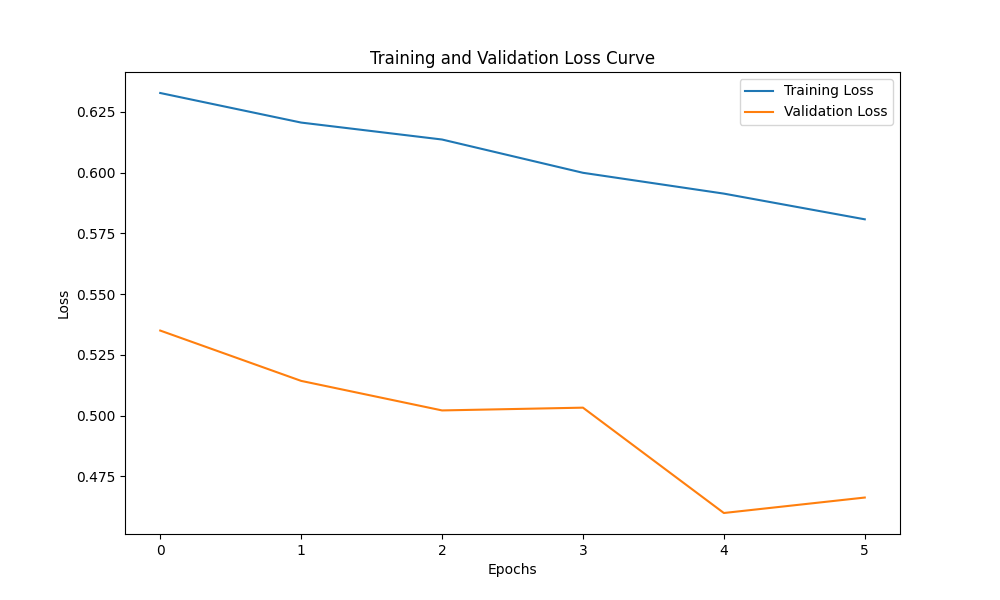
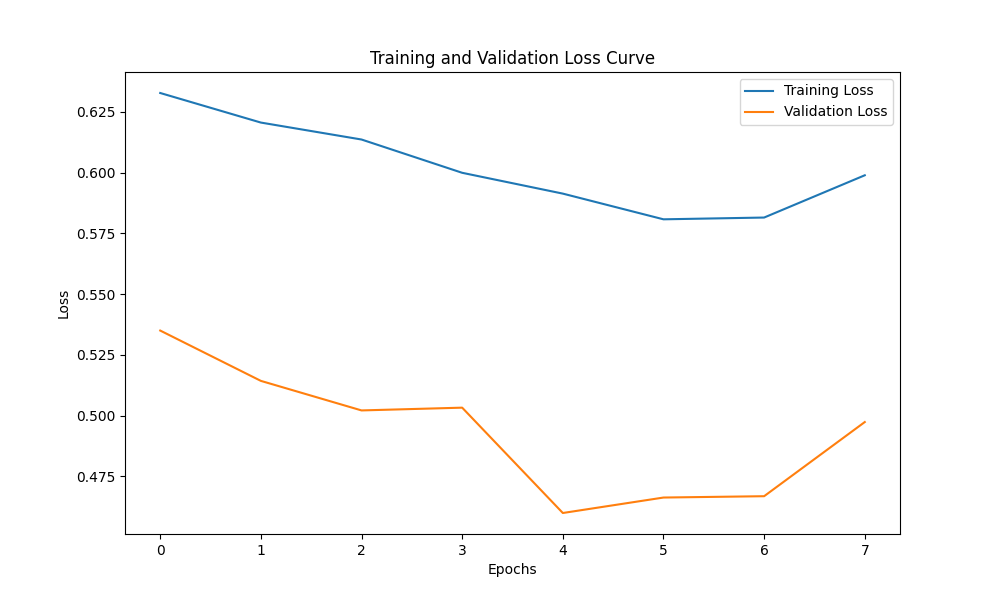
Debugging to reenable GAT models. Works like a charm, while LSTMs don't.

diff --git a/main.py b/main.py
@@ -34,10 +34,10 @@ parser.add_argument(
 parser.add_argument('--bucket_name', type=str, default='gnn_rddl', help='Name of the GCP bucket to use for storage.')
 
 # Instance creation and training
-parser.add_argument('--min_size', type=int, default=16, help='Minimum number of hosts in each instance')
-parser.add_argument('--max_size', type=int, default=64, help='Maximum number of hosts in each instance')
+parser.add_argument('--min_size', type=int, default=32, help='Minimum number of hosts in each instance')
+parser.add_argument('--max_size', type=int, default=32, help='Maximum number of hosts in each instance')
 parser.add_argument('--min_game_time', type=int, default=8, help='Min time horizon for the simulation and training.') # small: 70, large: 500
-parser.add_argument('--max_game_time', type=int, default=1024, help='Max time horizon for the simulation and training. Will stop simulation early if whole graph is compromised.') # small: 70, large: 500
+parser.add_argument('--max_game_time', type=int, default=256, help='Max time horizon for the simulation and training. Will stop simulation early if whole graph is compromised.') # small: 70, large: 500
 
 # Instance creation
 parser.add_argument('--n_instances', type=int, default=1024, help='Number of instances to create')
@@ -45,17 +45,17 @@ parser.add_argument('--n_init_compromised', type=int, default=1, help='Number of
 parser.add_argument('--extra_host_host_connection_ratio', type=float, default=0.25, help='0.25 means that 25% of hosts will have more than one connection to another host.')
 
 # Simulation
-parser.add_argument('-l', '--sim_log_window', type=int, default=1, help='Size of the logging window')
+parser.add_argument('-l', '--sim_log_window', type=int, default=64, help='Size of the logging window')
 parser.add_argument('--agent_type', default='random', choices=['random', 'host_targeted', 'keyboard', 'passive'], help='Type of agent to use for simulation')
 parser.add_argument('--random_agent_seed', default=None, help='Seed for random cyber agent')
 
 # Training
 parser.add_argument('--gnn_type', default='GAT_LSTM', choices=['GAT', 'RGCN', 'GIN', 'GCN', 'GAT_LSTM'], help='Type of GNN to use for training')
-parser.add_argument('--max_training_sequences', type=int, default=128, help='Maximum number of instances to use for training')
-parser.add_argument('--n_validation_sequences', type=int, default=16, help='Number of sequences to use for validation')
-parser.add_argument('--n_uncompromised_sequences', type=int, default=64, help='Number of uncompromised sequences to use')
+parser.add_argument('--max_training_sequences', type=int, default=1024, help='Maximum number of instances to use for training')
+parser.add_argument('--n_validation_sequences', type=int, default=32, help='Number of sequences to use for validation')
+parser.add_argument('--n_uncompromised_sequences', type=int, default=512, help='Number of uncompromised sequences to use')
 parser.add_argument('--train_log_window', type=int, default=64, help='Size of the logging window')
-parser.add_argument('--epochs', type=int, default=8, help='Number of epochs for GNN training')
+parser.add_argument('--epochs', type=int, default=16, help='Number of epochs for GNN training')
 parser.add_argument('--learning_rate', type=float, default=0.0002, help='Learning rate for GNN training')
 parser.add_argument('--batch_size', type=int, default=128, help='Batch size for GNN training')
 parser.add_argument('--n_hidden_layer_1', type=int, default=256, help='Number of neurons in hidden layer 1 for GNN')
@@ -69,8 +69,8 @@ parser.add_argument('--checkpoint_file', type=str, default=None, help='Name of t
 
 # Evaluation and animation
 #parser.add_argument('--model_filepath', type=str, default='models/model_log_window__hl_16,256,256_nsnpsht_256_lr_0.0002_bs_128_20231228_121849.pt', help='Path the model filename, relative to the bucket root.')
-#parser.add_argument('--model_filepath', type=str, default='models/model_log_window__hl_47,256,256_nsnpsht_256_lr_0.0002_bs_128_20231228_092722.pt', help='Path the model filename, relative to the bucket root.')
-parser.add_argument('--model_filepath', type=str, default='models/model_log_window__hl_256,256,256_nsnpsht_64_lr_0.0002_bs_128_20231228_115803.pt', help='Path the model filename, relative to the bucket root.')
+parser.add_argument('--model_filepath', type=str, default='models/model_log_window__hl_3018,256,256_nsnpsht_256_lr_0.0002_bs_128_20231228_135634.pt', help='Path the model filename, relative to the bucket root.')
+# parser.add_argument('--model_filepath', type=str, default='models/model_log_window__hl_256,256,256_nsnpsht_64_lr_0.0002_bs_128_20231228_115803.pt', help='Path the model filename, relative to the bucket root.')
 # Evaluation
 parser.add_argument('--trigger_threshold', type=float, default=0.5, help='The threashold probability at which a predicted label is considered positive.')
 parser.add_argument('--predictor_type', default='gnn', choices=['gnn', 'tabular', 'none'], help='Type of predictor')
@@ -80,8 +80,8 @@ parser.add_argument('--n_evaluation_sequences', type=int, default=32, help='Numb
 
 # Animation
 # parser.add_argument('--animation_sequence_filepath', type=str, default='animation_sequences/log_window_255/252_nodes/257_snapshots/20231215_134213_9153.pkl', help='Path the animation sequence filename, relative to the bucket root.')
-parser.add_argument('--animation_sequence_filepath', type=str, default='animation_sequences/log_window_64/64_nodes/960_snapshots/passive/20231227_134331_9326.pkl', help='Path the animation sequence filename, relative to the bucket root.')
-# parser.add_argument('--animation_sequence_filepath', type=str, default='animation_sequences/log_window_1/64_nodes/206_snapshots/random/20231228_123615_2688.pkl', help='Path the animation sequence filename, relative to the bucket root.')
+# passive parser.add_argument('--animation_sequence_filepath', type=str, default='animation_sequences/log_window_1/32_nodes/255_snapshots/passive/20231228_135631_9990.pkl', help='Path the animation sequence filename, relative to the bucket root.')
+parser.add_argument('--animation_sequence_filepath', type=str, default='animation_sequences/log_window_64/32_nodes/150_snapshots/random/20231228_204628_5684.pkl', help='Path the animation sequence filename, relative to the bucket root.')
 parser.add_argument('--frames_per_second', type=int, default=25, help='Frames per second in the animation.')
 parser.add_argument('--n_init_compromised_animate', type=int, default=1, help='Number of hosts initially compromised in each instance')
 parser.add_argument('--hide_prediction', action='store_true', help='Hide prediction in the animation.')

diff --git a/animator.py b/animator.py
@@ -10,6 +10,7 @@ import math
 from google.cloud import storage
 from predictor import Predictor
 from bucket_manager import BucketManager
+from gnn import GNN_LSTM
 
 class Animator:
     def __init__(self, animation_sequence_filename, bucket_manager, hide_prediction=False, hide_state=False):
@@ -22,9 +23,6 @@ class Animator:
         indexed_snapshot_sequence = bucket_manager.torch_load_from_bucket(animation_sequence_filename)
 
         self.snapshot_sequence = indexed_snapshot_sequence['snapshot_sequence']
-        # Assuming an LSTM model, we only need the first log entry (and the node type, which is at index 0)
-        for snapshot in self.snapshot_sequence:
-            snapshot.x = snapshot.x[:, :2]
         self.graph_index = indexed_snapshot_sequence['graph_index']
         num_nodes = len(self.graph_index.object_mapping)
         self.figsize = (30, 30)  # Define figure size
@@ -138,6 +136,12 @@ class Animator:
         logging.info(f'Animating {len(self.snapshot_sequence)} frames of {predictor_type} predictor {predictor_filename} on {self.animation_sequence_filename}.')
 
         predictor = Predictor(predictor_type, predictor_filename, self.bucket_manager)
+
+        # If an LSTM model, we only need the first log entry (and the node type, which is at index 0)
+        if isinstance(predictor.model, GNN_LSTM):
+            for snapshot in self.snapshot_sequence:
+                snapshot.x = snapshot.x[:, :2]
+
 
         probabilities = predictor.predict_sequence(self.snapshot_sequence)
 

diff --git a/predictor.py b/predictor.py
@@ -4,6 +4,7 @@ import torch.nn.functional as F
 from torch.nn.functional import softmax
 from google.cloud import storage
 from bucket_manager import BucketManager
+from gnn import GNN_LSTM
 
 
 class Predictor:
@@ -51,7 +52,11 @@ class Predictor:
         
     def predict_sequence(self, sequence):
         hidden_state = None
-        logits, hidden_state = self.model(sequence, hidden_state)
+        if isinstance(self.model, GNN_LSTM):
+            logits, hidden_state = self.model(sequence, hidden_state)
+            # hidden_state = (hidden_state[0].detach(), hidden_state[1].detach()) # Detach the hidden state to prevent backpropagation through time
+        else:
+            logits = self.model(sequence)
         probabilities = F.softmax(logits, dim=-1)
         return probabilities[:,:,1]
 
